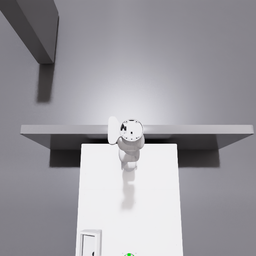
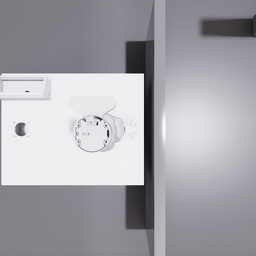
made voxels smaller to avoid colliding with bottommost arm joint

diff --git a/humble_ws/src/antworker_moveit_bringup/antworker_moveit_bringup/move_action_interface.py b/humble_ws/src/antworker_moveit_bringup/antworker_moveit_bringup/move_action_interface.py
@@ -17,7 +17,7 @@ class MoveGroupActionClientNode(Node):
         while not self.move_group_action_client.wait_for_server(timeout_sec=1.0):
             self.get_logger().info('Action server not available, waiting again...')
 
-        goal_msg = self.generate_goal_msg()
+        goal_msg = self.generate_beyond_wall_pose()
 
         self.move_group_action_client.wait_for_server()
 
@@ -27,7 +27,7 @@ class MoveGroupActionClientNode(Node):
 
         # self.move_group_action_client.wait_for_server()
 
-        # goal_msg = self.generate_goal_msg2()
+        # goal_msg = self.generate_behind_wall_pose()
 
         # self.future = self.move_group_action_client.send_goal_async(goal_msg, feedback_callback = self.feedback_callback)
 
@@ -35,10 +35,10 @@ class MoveGroupActionClientNode(Node):
 
         
 
-    def generate_goal_msg(self):
+    def generate_beyond_wall_pose(self):
         goal_msg = MoveGroup.Goal()
 
-        goal_msg.planning_options.plan_only = False
+        goal_msg.planning_options.plan_only = True
         goal_msg.planning_options.look_around = False
         goal_msg.planning_options.replan = True
         goal_msg.planning_options.replan_attempts = 10
@@ -62,13 +62,13 @@ class MoveGroupActionClientNode(Node):
 
         bounding_prim = SolidPrimitive()
         bounding_prim.type = 1 # 1 is box
-        bounding_prim.dimensions = [0.01, 0.01, 0.01]
+        bounding_prim.dimensions = [0.05, 0.05, 0.05]
 
         # is the bounding box in the arm_base_link frame or the end effector frame?
         bounding_prim_pose = Pose()
-        bounding_prim_pose.position.x = 0.0
-        bounding_prim_pose.position.y = 0.7
-        bounding_prim_pose.position.z = 0.2
+        bounding_prim_pose.position.x = -0.73
+        bounding_prim_pose.position.y = 0.0
+        bounding_prim_pose.position.z = 0.7
         bounding_prim_pose.orientation.x = 0.0
         bounding_prim_pose.orientation.y = 0.0
         bounding_prim_pose.orientation.z = 0.0
@@ -81,11 +81,11 @@ class MoveGroupActionClientNode(Node):
         
 
         ee_orient_constraint = OrientationConstraint()
-        ee_orient_constraint.header.frame_id = "chassis_link"
+        ee_orient_constraint.header.frame_id = "arm_base_link"
         ee_orient_constraint.link_name = "end_effector_link"
-        ee_orient_constraint.orientation.x = 0.0
-        ee_orient_constraint.orientation.y = 1.0
-        ee_orient_constraint.orientation.z = 0.0
+        ee_orient_constraint.orientation.x = -0.49
+        ee_orient_constraint.orientation.y = 0.0
+        ee_orient_constraint.orientation.z = 0.87
         ee_orient_constraint.orientation.w = 0.0
 
         constraints = Constraints()
@@ -96,10 +96,10 @@ class MoveGroupActionClientNode(Node):
 
         return goal_msg
 
-    def generate_goal_msg2(self):
+    def generate_behind_wall_pose(self):
         goal_msg = MoveGroup.Goal()
 
-        goal_msg.planning_options.plan_only = False
+        goal_msg.planning_options.plan_only = True
         goal_msg.planning_options.look_around = False
         goal_msg.planning_options.replan = True
         goal_msg.planning_options.replan_attempts = 10
@@ -113,7 +113,7 @@ class MoveGroupActionClientNode(Node):
         goal_msg.request.planner_id = "PTP"
 
         ee_pose_constraint = PositionConstraint()
-        ee_pose_constraint.header.frame_id = "chassis_link"
+        ee_pose_constraint.header.frame_id = "arm_base_link"
         ee_pose_constraint.link_name = "end_effector_link"
         ee_pose_constraint.target_point_offset.x = 0.0
         ee_pose_constraint.target_point_offset.y = 0.0
@@ -123,17 +123,17 @@ class MoveGroupActionClientNode(Node):
 
         bounding_prim = SolidPrimitive()
         bounding_prim.type = 1 # 1 is box
-        bounding_prim.dimensions = [0.01, 0.01, 0.01]
+        bounding_prim.dimensions = [0.05, 0.05, 0.05]
 
         # is the bounding box in the arm_base_link frame or the end effector frame?
         bounding_prim_pose = Pose()
-        bounding_prim_pose.position.x = -0.5
-        bounding_prim_pose.position.y = 0.3
-        bounding_prim_pose.position.z = 0.1
-        bounding_prim_pose.orientation.x = 0.0
-        bounding_prim_pose.orientation.y = 0.0
-        bounding_prim_pose.orientation.z = 0.0
-        bounding_prim_pose.orientation.w = 1.0
+        bounding_prim_pose.position.x = 0.0
+        bounding_prim_pose.position.y = -0.71
+        bounding_prim_pose.position.z = 0.0
+        bounding_prim_pose.orientation.x = 0.56
+        bounding_prim_pose.orientation.y = 0.57
+        bounding_prim_pose.orientation.z = -0.42
+        bounding_prim_pose.orientation.w = 0.42
 
         bounding_volume.primitives.append(bounding_prim)
         bounding_volume.primitive_poses.append(bounding_prim_pose)
@@ -142,7 +142,7 @@ class MoveGroupActionClientNode(Node):
         
 
         ee_orient_constraint = OrientationConstraint()
-        ee_orient_constraint.header.frame_id = "chassis_link"
+        ee_orient_constraint.header.frame_id = "arm_base_link"
         ee_orient_constraint.link_name = "end_effector_link"
         ee_orient_constraint.orientation.x = 0.0
         ee_orient_constraint.orientation.y = 1.0

diff --git a/humble_ws/src/antworker_moveit_bringup/launch/moveit_bringup.launch.py b/humble_ws/src/antworker_moveit_bringup/launch/moveit_bringup.launch.py
@@ -59,7 +59,10 @@ def generate_launch_description():
         output="screen",
         parameters=[
             moveit_config.to_dict(),
-            {"use_sim_time": is_simulation}
+            {
+                "use_sim_time": is_simulation,
+                "octomap_resolution": 0.05
+            }
             
         ],
         arguments=["--ros-args", "--log-level", "info"],
